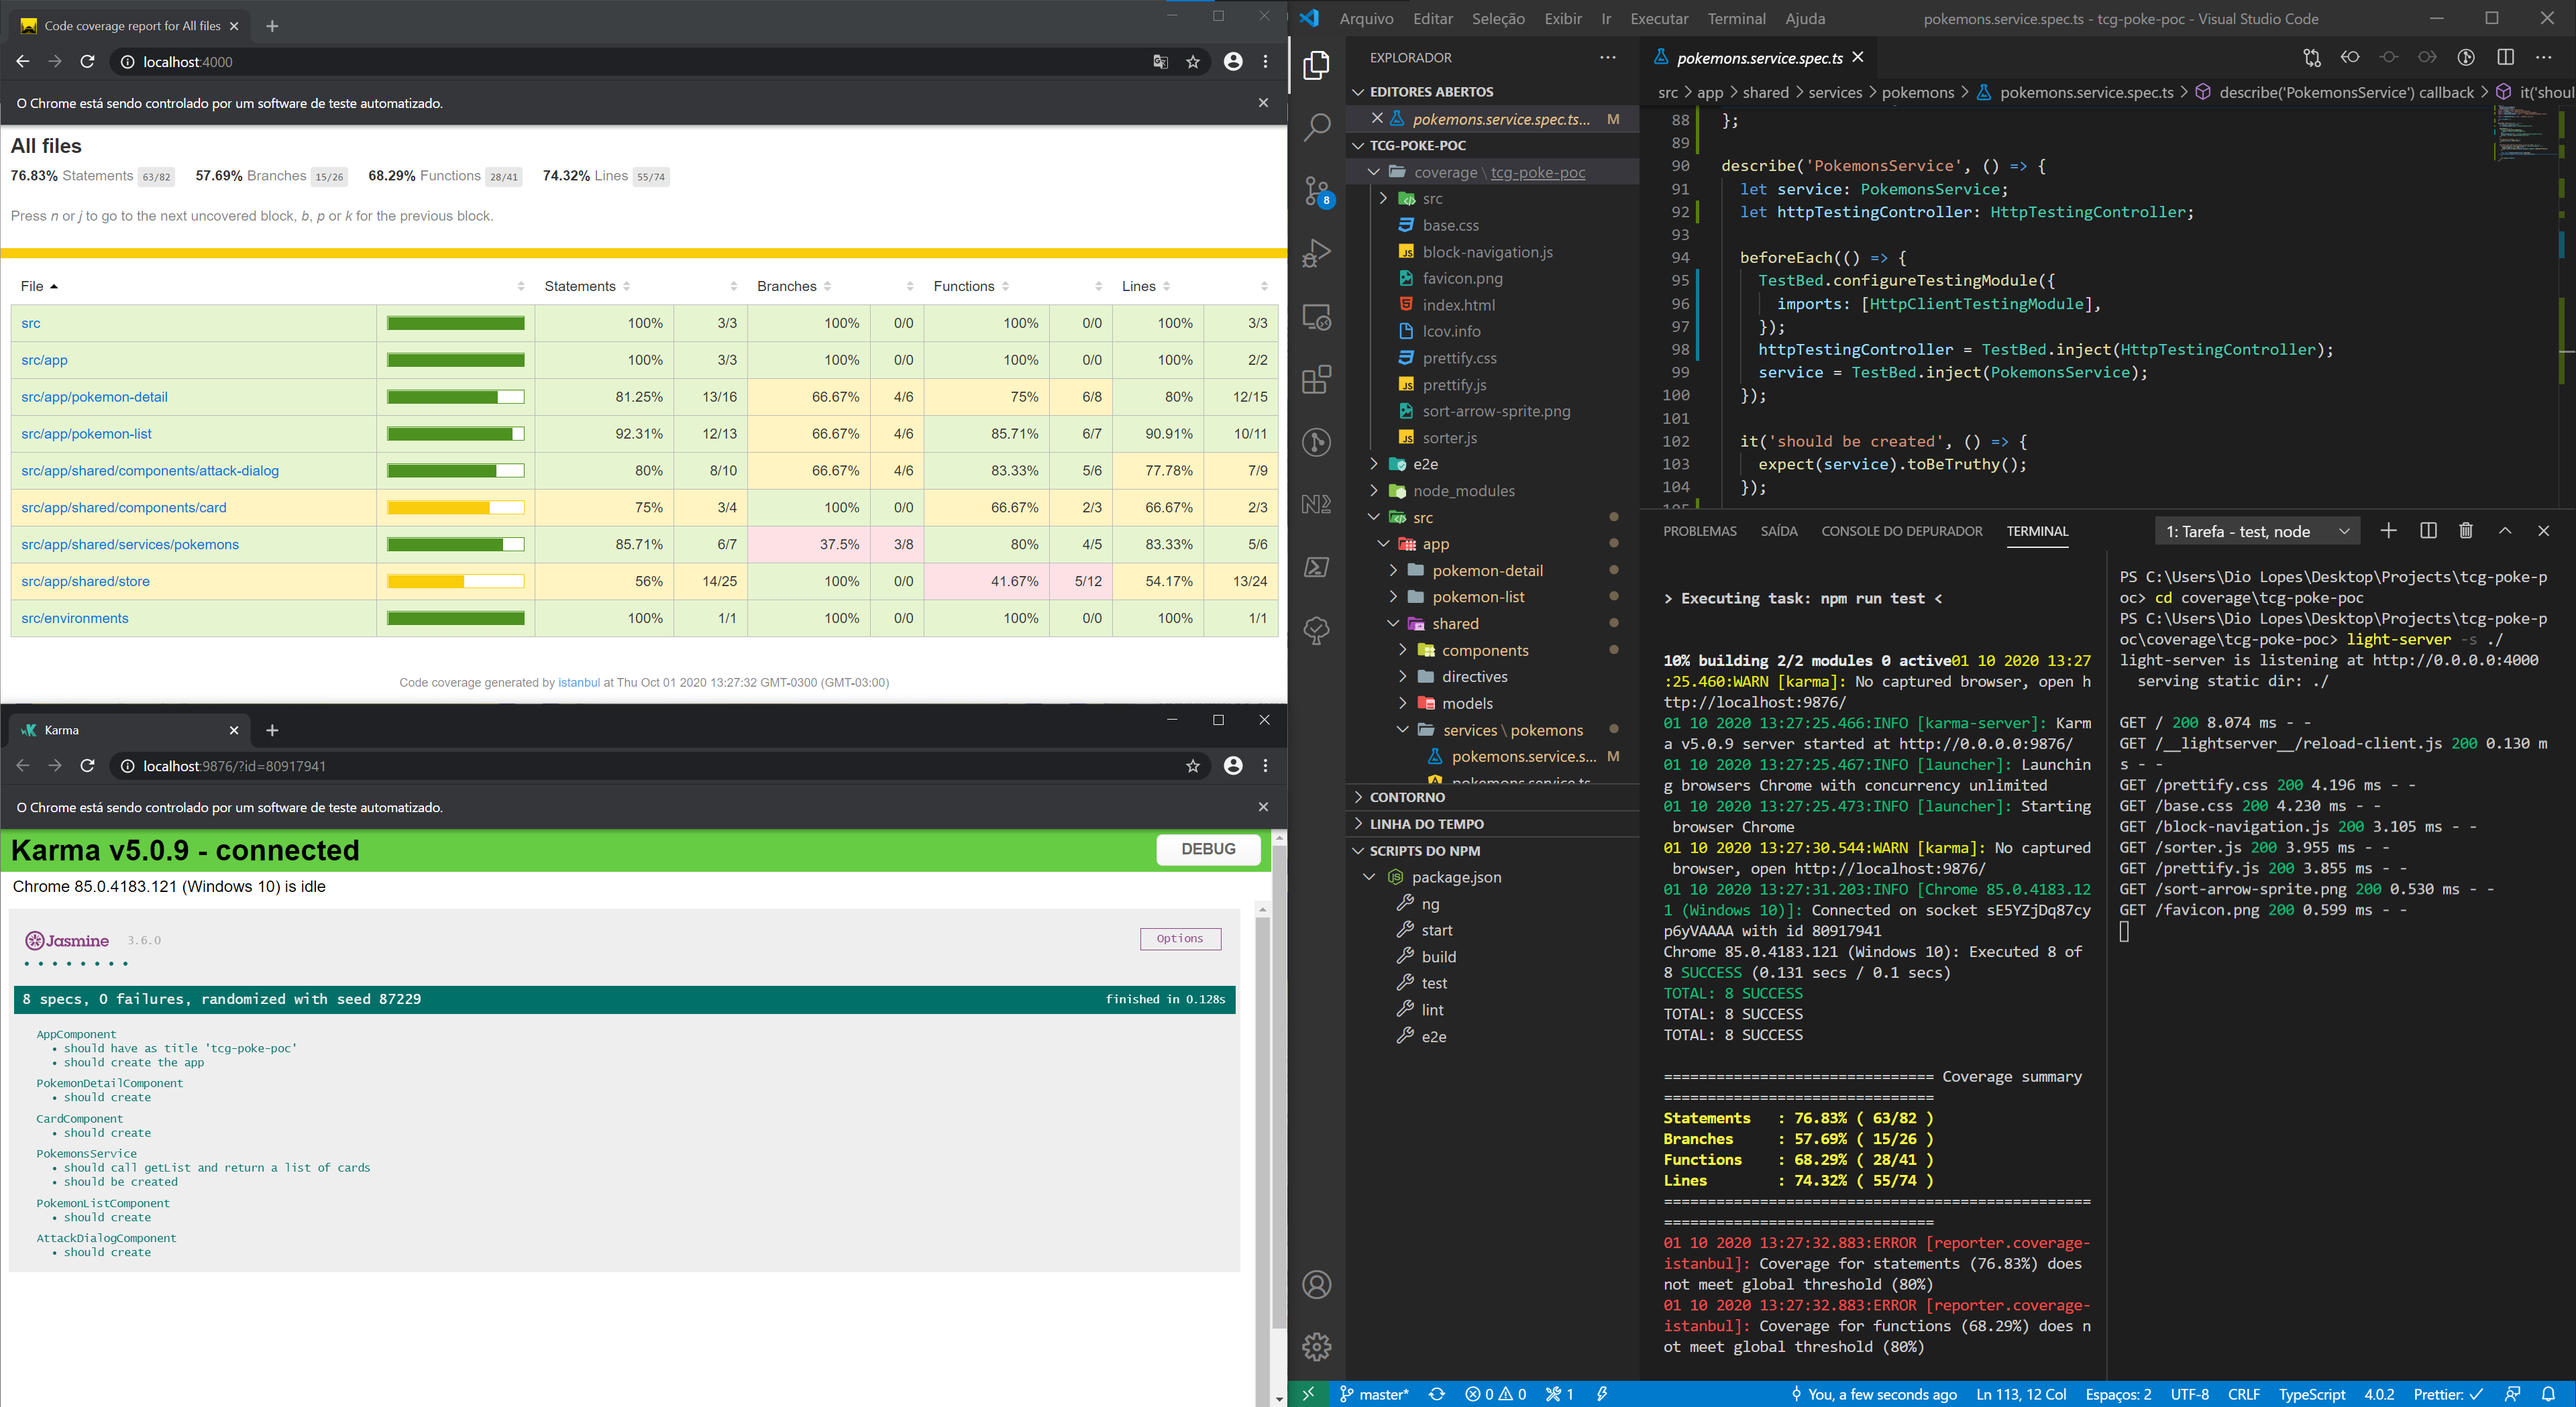
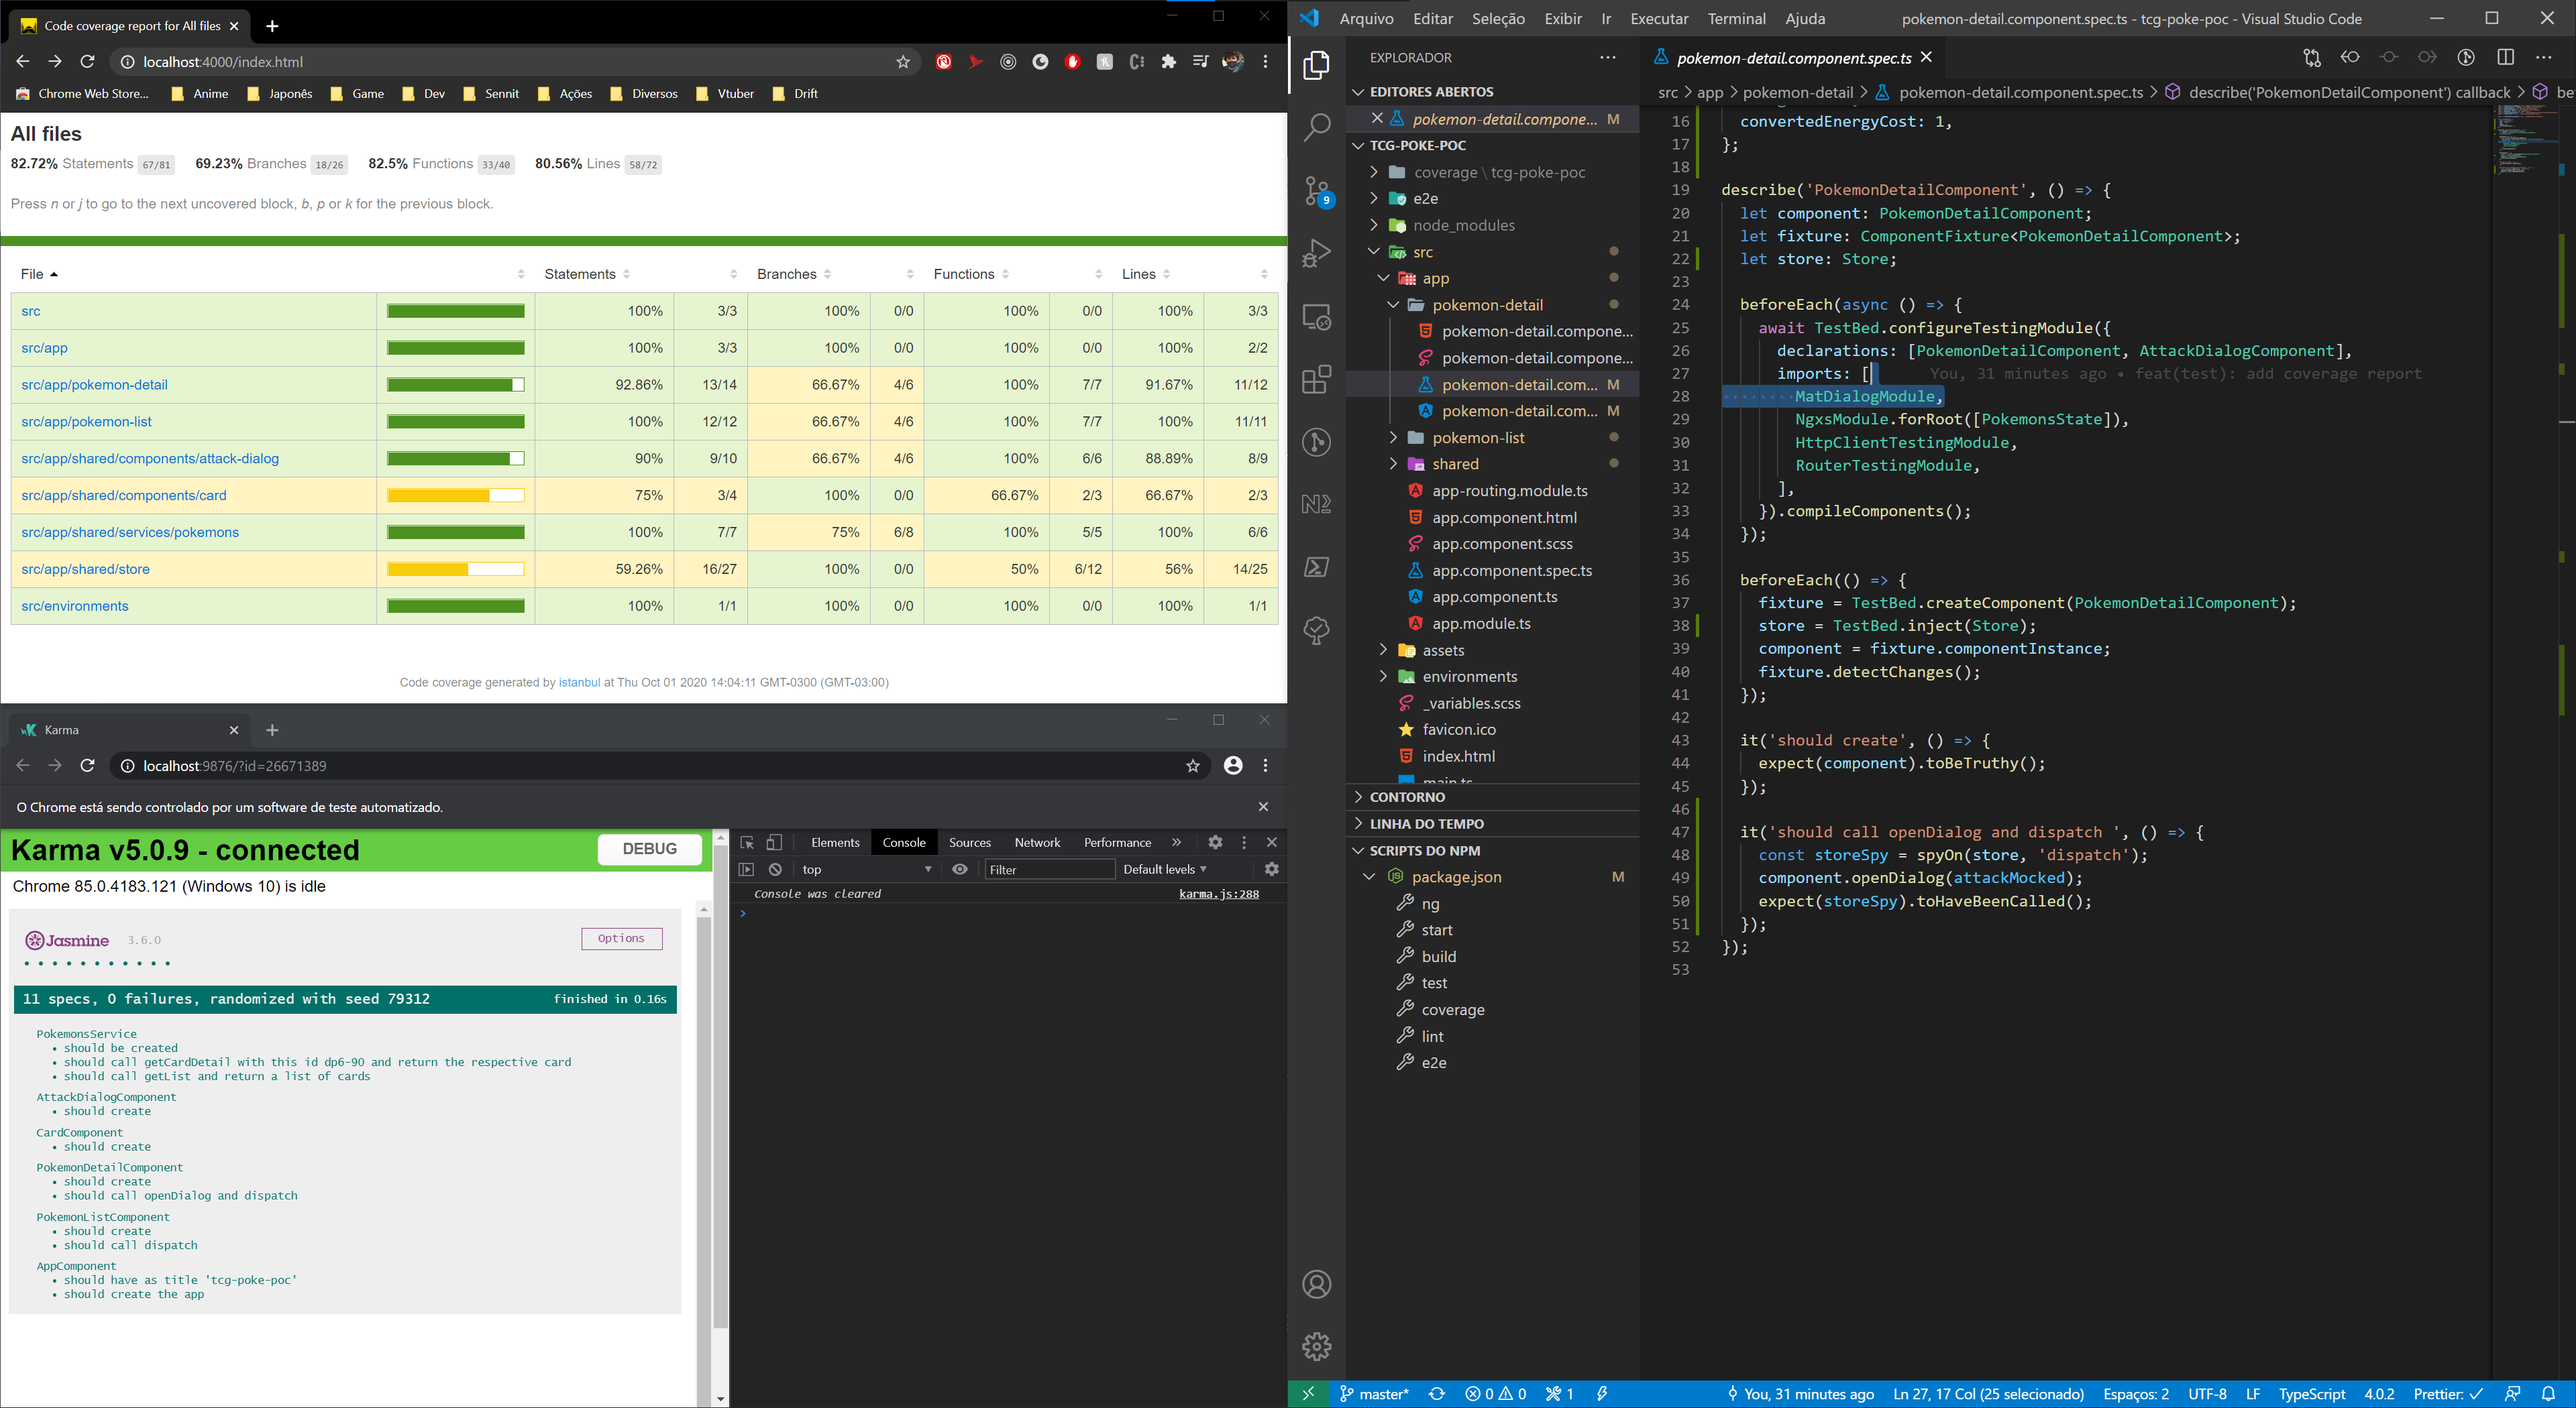
fix(coverage): fix specs to hit min 80%

diff --git a/src/app/shared/services/pokemons/pokemons.service.spec.ts b/src/app/shared/services/pokemons/pokemons.service.spec.ts
@@ -4,7 +4,10 @@ import {
 } from '@angular/common/http/testing';
 import { TestBed } from '@angular/core/testing';
 import { environment } from 'src/environments/environment';
-import { PokemonsStateData } from '../../models/pokemons/pokemons.model';
+import {
+  PokemonData,
+  PokemonsStateData,
+} from '../../models/pokemons/pokemons.model';
 
 import { PokemonsService } from './pokemons.service';
 
@@ -86,6 +89,46 @@ const cardsMock = {
     },
   ],
 };
+const cardDetailMock = {
+  card: {
+    id: 'dp6-90',
+    name: 'Cubone',
+    nationalPokedexNumber: 104,
+    imageUrl: 'https://images.pokemontcg.io/dp6/90.png',
+    imageUrlHiRes: 'https://images.pokemontcg.io/dp6/90_hires.png',
+    types: ['Fighting'],
+    supertype: 'Pokémon',
+    subtype: 'Basic',
+    hp: '60',
+    retreatCost: ['Colorless'],
+    convertedRetreatCost: 1,
+    number: '90',
+    artist: 'Kagemaru Himeno',
+    rarity: 'Common',
+    series: 'Diamond & Pearl',
+    set: 'Legends Awakened',
+    setCode: 'dp6',
+    attacks: [
+      {
+        cost: ['Colorless'],
+        name: 'Headbutt',
+        text: '',
+        damage: '10',
+        convertedEnergyCost: 1,
+      },
+      {
+        cost: ['Fighting', 'Colorless'],
+        name: 'Bonemerang',
+        text:
+          'Flip 2 coins. This attack does 20 damage times the number of heads.',
+        damage: '20×',
+        convertedEnergyCost: 2,
+      },
+    ],
+    resistances: [{ type: 'Lightning', value: '-20' }],
+    weaknesses: [{ type: 'Water', value: '+10' }],
+  },
+};
 
 describe('PokemonsService', () => {
   let service: PokemonsService;
@@ -114,5 +157,18 @@ describe('PokemonsService', () => {
     );
 
     req.flush(cardsMock);
+  });
+
+  it('should call getCardDetail with this id dp6-90 and return the respective card', () => {
+    service.getCardDetail('dp6-90').subscribe((pokemon: PokemonData) => {
+      expect(pokemon).not.toBe(null);
+      expect(pokemon.id).toEqual('dp6-90');
+    });
+
+    const req = httpTestingController.expectOne(
+      environment.apiUrl + environment.apiCardsEndpoint + '/dp6-90'
+    );
+
+    req.flush(cardDetailMock);
   });
 });

diff --git a/src/app/pokemon-detail/pokemon-detail.component.ts b/src/app/pokemon-detail/pokemon-detail.component.ts
@@ -6,7 +6,10 @@ import { MatDialog } from '@angular/material/dialog';
 
 import { AttackDialogComponent } from '../shared/components/attack-dialog/attack-dialog.component';
 import { PokemonData } from '../shared/models/pokemons/pokemons.model';
-import { GetAttackPokemonDetail, GetPokemonDetail } from '../shared/store/pokemons.actions';
+import {
+  GetAttackPokemonDetail,
+  GetPokemonDetail,
+} from '../shared/store/pokemons.actions';
 import { Attack } from '../shared/models/attack/attack.model';
 
 @Component({
@@ -19,11 +22,7 @@ export class PokemonDetailComponent implements OnInit, OnDestroy {
 
   private mySubs: Subscription;
 
-  constructor(
-    private actRoute: ActivatedRoute,
-    private store: Store,
-    public dialog: MatDialog
-  ) {
+  constructor(private actRoute: ActivatedRoute, private store: Store) {
     this.mySubs = new Subscription();
     this.mySubs.add(this.getCardsSubscription());
   }
@@ -37,6 +36,10 @@ export class PokemonDetailComponent implements OnInit, OnDestroy {
     this.mySubs.unsubscribe();
   }
 
+  public openDialog(attack: Attack): void {
+    this.store.dispatch(new GetAttackPokemonDetail(attack.name));
+  }
+
   private getCardsSubscription(): Subscription {
     return this.store
       .select((state) => state.pokeDB)
@@ -44,15 +47,6 @@ export class PokemonDetailComponent implements OnInit, OnDestroy {
         if (cards?.selectedCard) {
           this.selectedPokemon = cards.selectedCard;
         }
-      });
-  }
-
-  public openDialog(attack: Attack): void {
-    this.store
-      .dispatch(new GetAttackPokemonDetail(attack.name))
-      .toPromise()
-      .then((value) => {
-        this.dialog.open(AttackDialogComponent);
       });
   }
 }

diff --git a/src/app/pokemon-list/pokemon-list.component.spec.ts b/src/app/pokemon-list/pokemon-list.component.spec.ts
@@ -1,20 +1,24 @@
 import { HttpClientTestingModule } from '@angular/common/http/testing';
 import { ComponentFixture, TestBed } from '@angular/core/testing';
+import { MatDialogModule } from '@angular/material/dialog';
 import { RouterTestingModule } from '@angular/router/testing';
-import { NgxsModule } from '@ngxs/store';
+import { NgxsModule, Store } from '@ngxs/store';
 import { CardComponent } from '../shared/components/card/card.component';
+import { PokemonData } from '../shared/models/pokemons/pokemons.model';
 import { PokemonsState } from '../shared/store/pokemons.state';
 
 import { PokemonListComponent } from './pokemon-list.component';
 
 describe('PokemonListComponent', () => {
   let component: PokemonListComponent;
+  let store: Store;
   let fixture: ComponentFixture<PokemonListComponent>;
 
   beforeEach(async () => {
     await TestBed.configureTestingModule({
       declarations: [PokemonListComponent, CardComponent],
       imports: [
+        MatDialogModule,
         NgxsModule.forRoot([PokemonsState]),
         HttpClientTestingModule,
         RouterTestingModule,
@@ -24,11 +28,18 @@ describe('PokemonListComponent', () => {
 
   beforeEach(() => {
     fixture = TestBed.createComponent(PokemonListComponent);
+    store = TestBed.inject(Store);
     component = fixture.componentInstance;
     fixture.detectChanges();
   });
 
   it('should create', () => {
     expect(component).toBeTruthy();
+  });
+
+  it('should call dispatch', () => {
+    const storeSpy = spyOn(store, 'dispatch');
+    component.goToDetails({ id: 'dp6-90' } as PokemonData);
+    expect(storeSpy).toHaveBeenCalled();
   });
 });

diff --git a/src/app/pokemon-detail/pokemon-detail.component.spec.ts b/src/app/pokemon-detail/pokemon-detail.component.spec.ts
@@ -2,15 +2,24 @@ import { HttpClientTestingModule } from '@angular/common/http/testing';
 import { ComponentFixture, TestBed } from '@angular/core/testing';
 import { MatDialogModule } from '@angular/material/dialog';
 import { RouterTestingModule } from '@angular/router/testing';
-import { NgxsModule } from '@ngxs/store';
+import { NgxsModule, Store } from '@ngxs/store';
 import { AttackDialogComponent } from '../shared/components/attack-dialog/attack-dialog.component';
 import { PokemonsState } from '../shared/store/pokemons.state';
 
 import { PokemonDetailComponent } from './pokemon-detail.component';
 
+const attackMocked = {
+  cost: ['Colorless'],
+  name: 'Headbutt',
+  text: '',
+  damage: '10',
+  convertedEnergyCost: 1,
+};
+
 describe('PokemonDetailComponent', () => {
   let component: PokemonDetailComponent;
   let fixture: ComponentFixture<PokemonDetailComponent>;
+  let store: Store;
 
   beforeEach(async () => {
     await TestBed.configureTestingModule({
@@ -26,11 +35,18 @@ describe('PokemonDetailComponent', () => {
 
   beforeEach(() => {
     fixture = TestBed.createComponent(PokemonDetailComponent);
+    store = TestBed.inject(Store);
     component = fixture.componentInstance;
     fixture.detectChanges();
   });
 
   it('should create', () => {
     expect(component).toBeTruthy();
+  });
+
+  it('should call openDialog and dispatch ', () => {
+    const storeSpy = spyOn(store, 'dispatch');
+    component.openDialog(attackMocked);
+    expect(storeSpy).toHaveBeenCalled();
   });
 });

diff --git a/src/app/shared/store/pokemons.state.ts b/src/app/shared/store/pokemons.state.ts
@@ -1,7 +1,9 @@
 import { Injectable } from '@angular/core';
+import { MatDialog } from '@angular/material/dialog';
 import { State, Action, StateContext, Selector } from '@ngxs/store';
 
 import { take } from 'rxjs/operators';
+import { AttackDialogComponent } from '../components/attack-dialog/attack-dialog.component';
 import {
   PokemonData,
   PokemonsStateData,
@@ -24,7 +26,7 @@ import {
 })
 @Injectable()
 export class PokemonsState {
-  constructor(private pokeServ: PokemonsService) {}
+  constructor(private pokeServ: PokemonsService, public dialog: MatDialog) {}
 
   @Selector()
   public static pokemons(state: PokemonsStateData): PokemonData[] {
@@ -71,5 +73,6 @@ export class PokemonsState {
       (attack) => attack.name === payload.attackName
     );
     patchState(state);
+    this.dialog.open(AttackDialogComponent);
   }
 }

diff --git a/src/app/pokemon-list/pokemon-list.component.ts b/src/app/pokemon-list/pokemon-list.component.ts
@@ -1,5 +1,4 @@
 import { Component, OnDestroy, OnInit } from '@angular/core';
-import { Router } from '@angular/router';
 
 import { Subscription } from 'rxjs';
 
@@ -20,7 +19,7 @@ import { GetPokemons } from '../shared/store/pokemons.actions';
 export class PokemonListComponent implements OnInit, OnDestroy {
   public cards: Array<PokemonData>;
   private mySubs: Subscription;
-  constructor(private store: Store, private router: Router) {
+  constructor(private store: Store) {
     this.mySubs = new Subscription();
     this.mySubs.add(this.getCardsSubscription());
     this.store.dispatch(new GetPokemons());

diff --git a/README.md b/README.md
@@ -18,15 +18,14 @@ Run `ng build` to build the project. The build artifacts will be stored in the `
 
 Run `ng test` to execute the unit tests via [Karma](https://karma-runner.github.io).
 
+## Coverage Report
+
+After run once `ng test or npm run test` you can check the coverage report runing `npm run coverage` and access http://localhost:4000
+
+Last Coverage Report
+
+![Last Coverage Report](https://github.com/DioLps/tgc-poke-poc/blob/master/src/assets/coverage.png?raw=true)
+
 ## Running end-to-end tests
 
 Run `ng e2e` to execute the end-to-end tests via [Protractor](http://www.protractortest.org/).
-
-## Further help
-
-To get more help on the Angular CLI use `ng help` or go check out the [Angular CLI README](https://github.com/angular/angular-cli/blob/master/README.md).
-
-
-## Coverage Report
-
-![Last Coverage Report](https://github.com/DioLps/tgc-poke-poc/blob/master/src/assets/coverage.png?raw=true)
